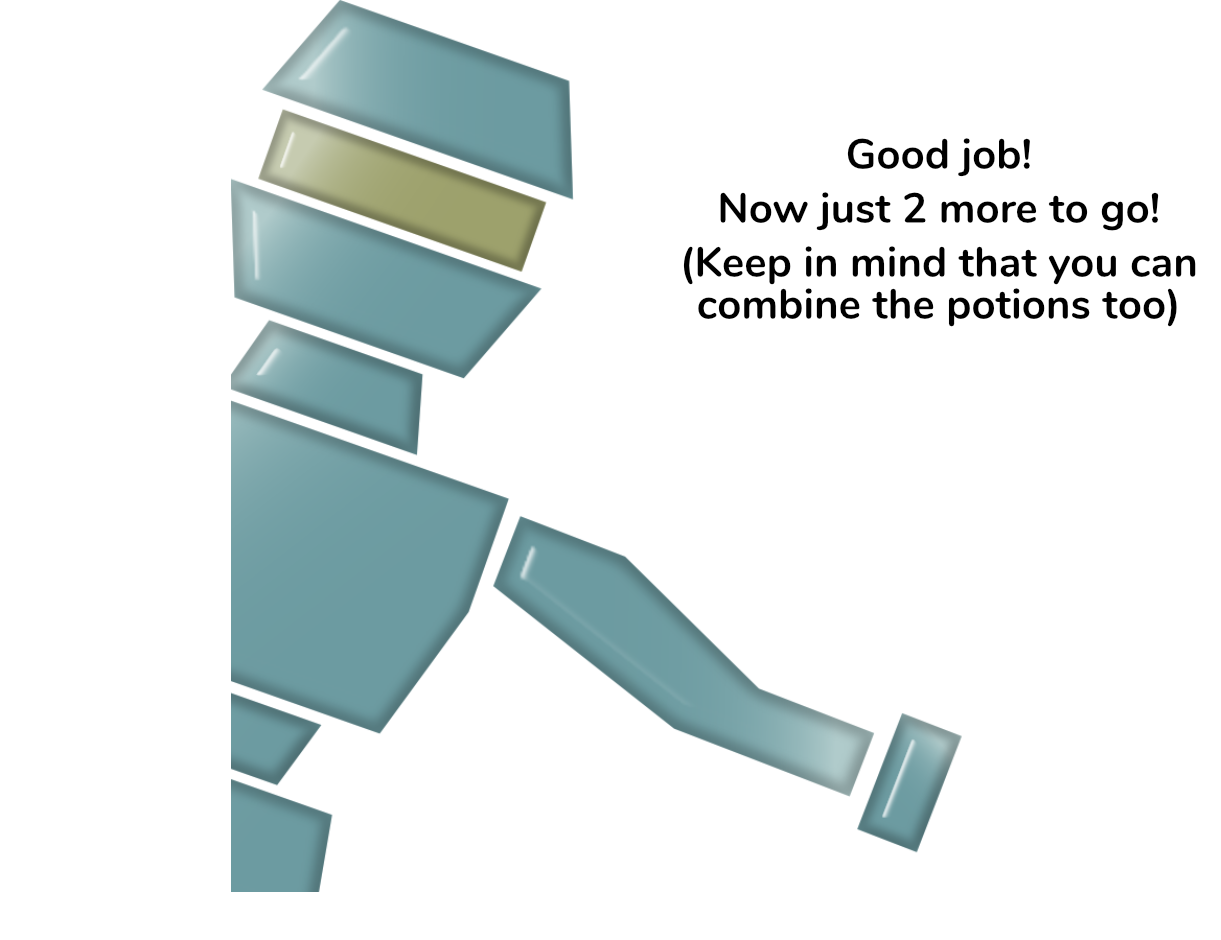
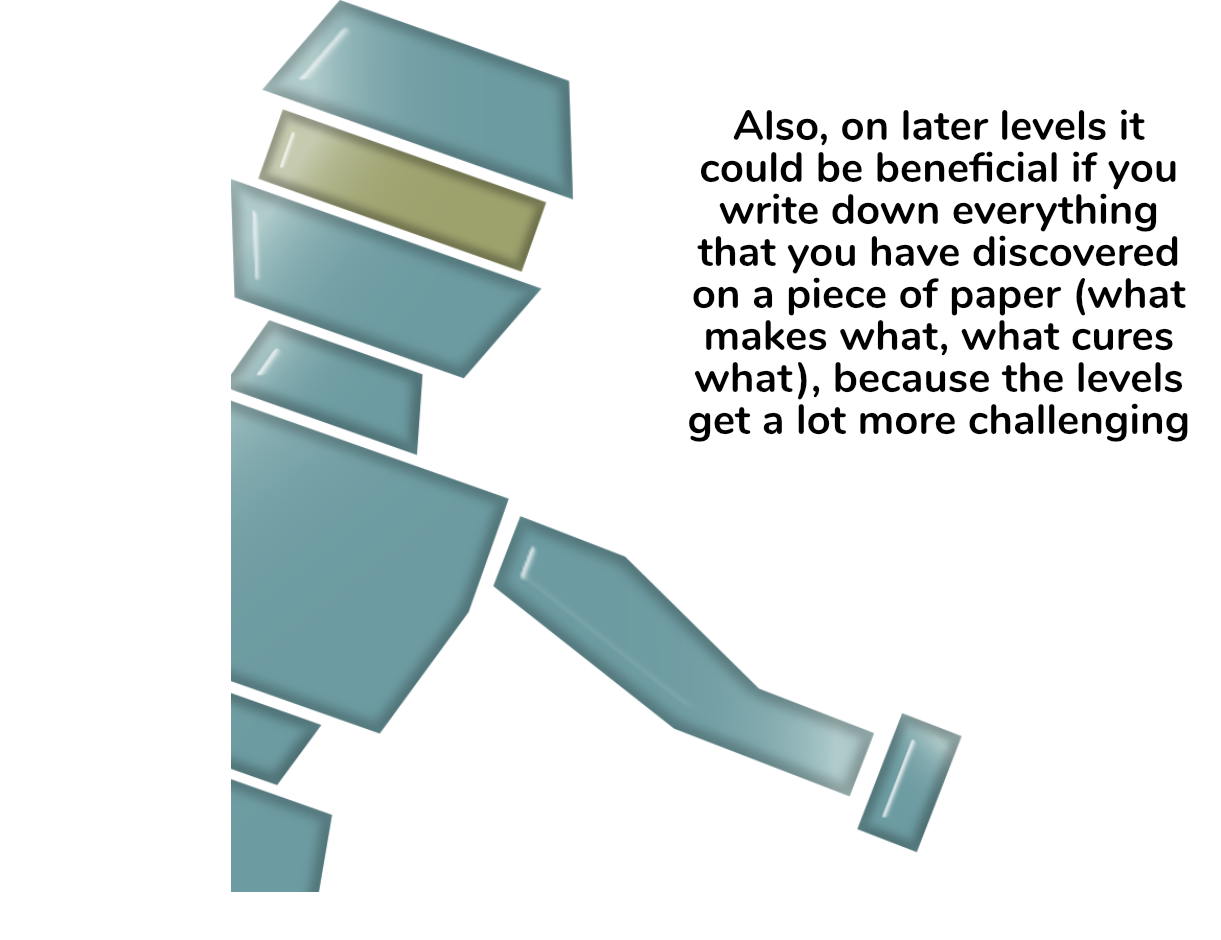
tutorial added pic

Changed region(s): [[0.5602, 0.1234, 0.9959, 0.4628]]

diff --git a/Assets/Script/tutorial.cs b/Assets/Script/tutorial.cs
@@ -96,6 +96,9 @@ public class tutorial : MonoBehaviour
                 break;
             case 17:
                 simple(2);
+                break;
+            case 18:
+                simple(2);
                 PlayerPrefs.SetInt("Tut", 1);
                 Debug.Log(PlayerPrefs.GetInt("Tut"));
                 break;
@@ -114,11 +117,11 @@ public class tutorial : MonoBehaviour
 
     public void Advance()
     {
-        if(farth < 17)
+        if(farth < 18)
         {
             part1();
         }
-        else if (farth == 17)
+        else if (farth == 18)
         {
             tg.SetActive(false);
             receptionist.self.InvokeRepeating("LowerScore", 10.0f, 1.5f);
